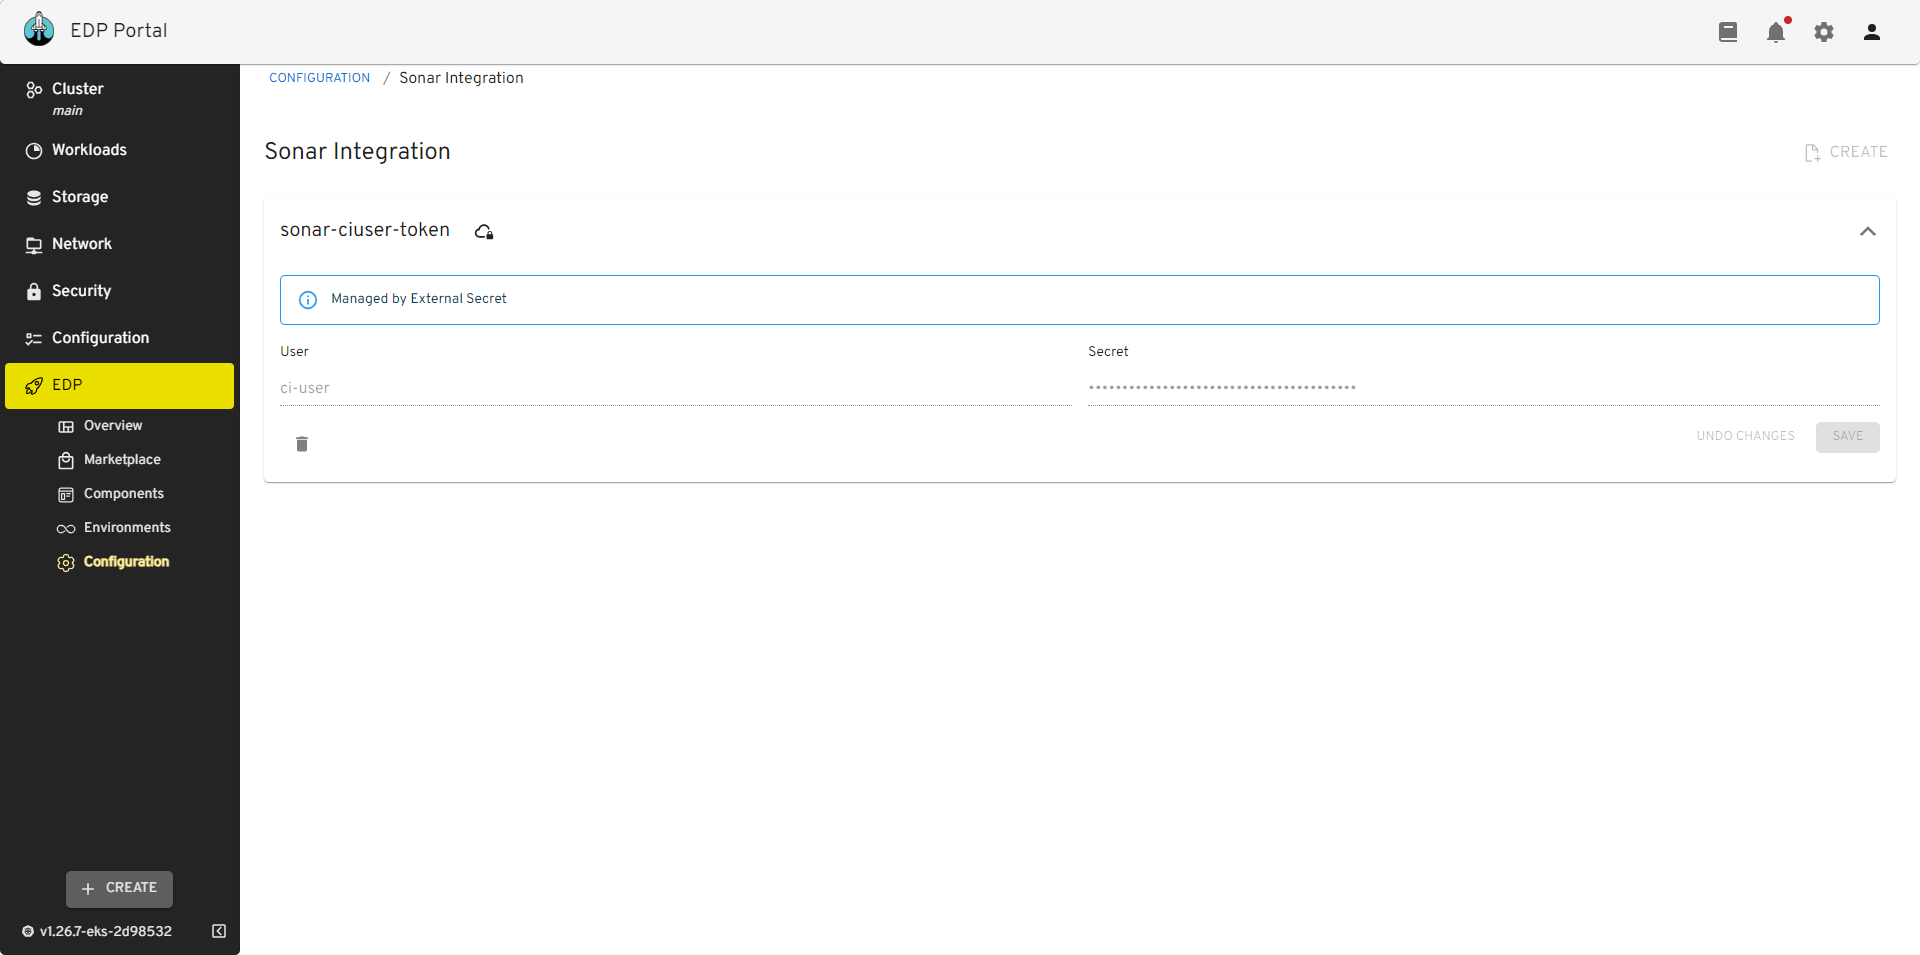
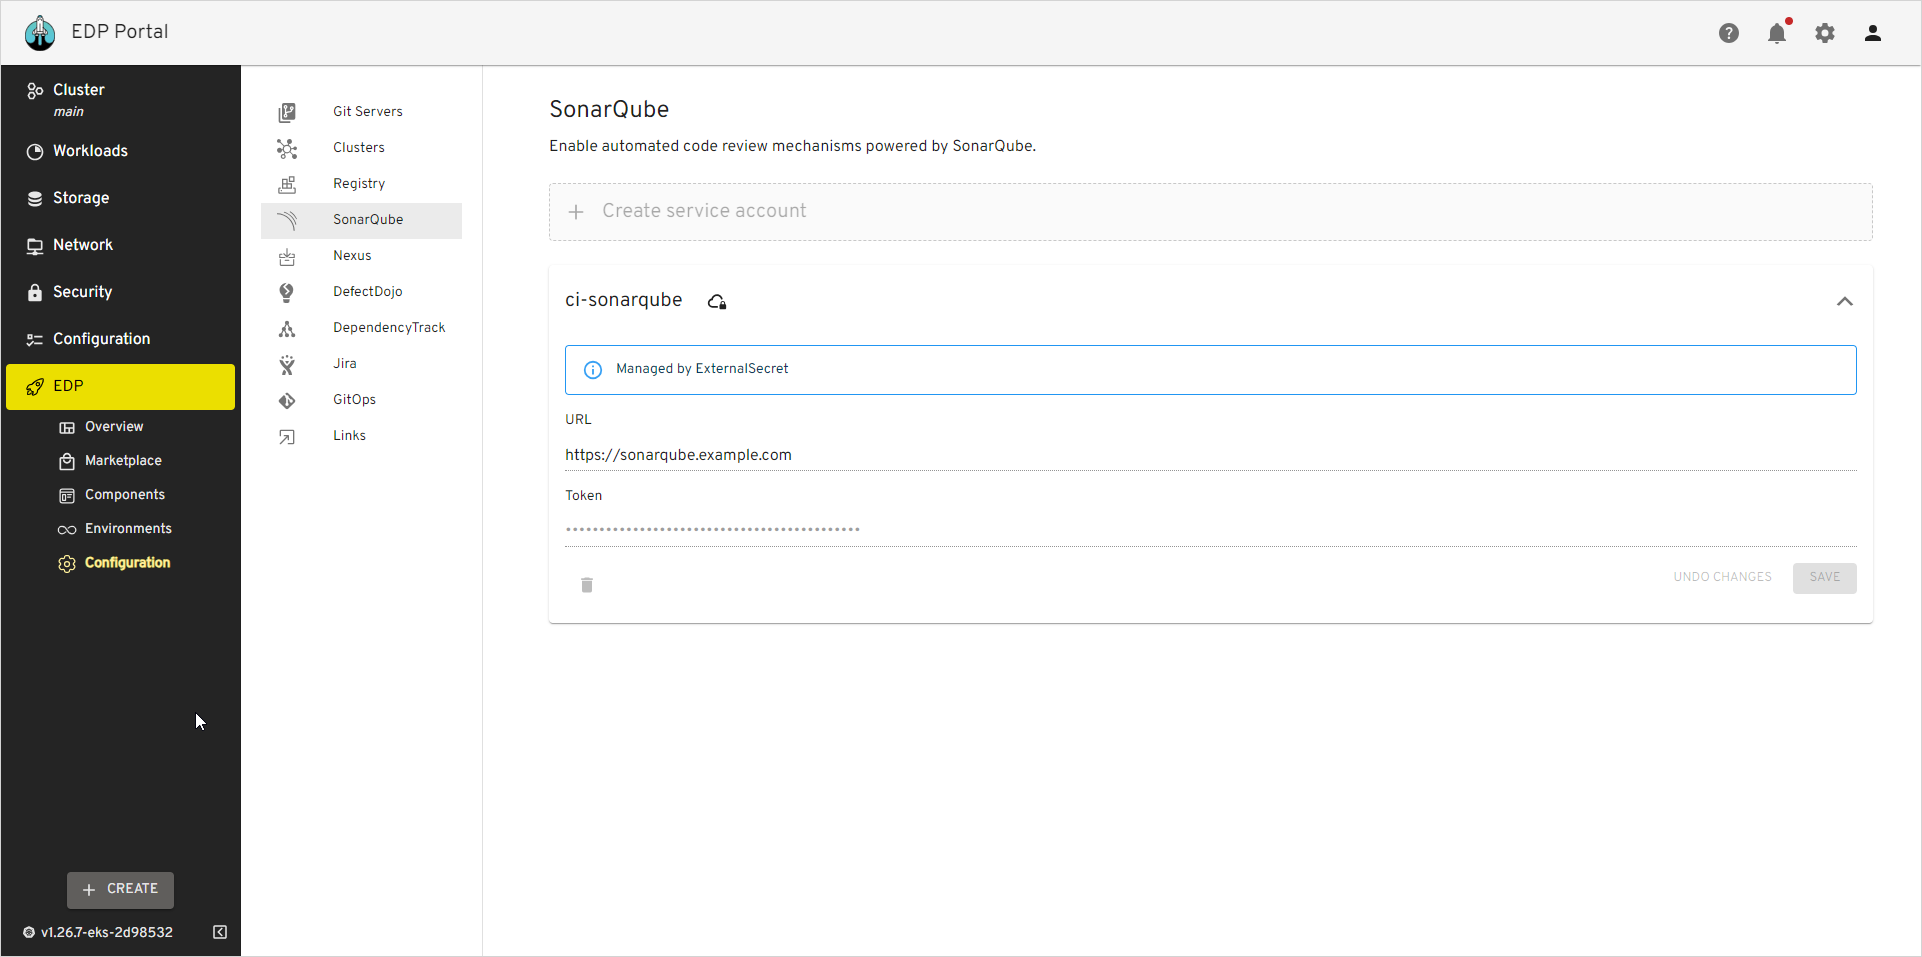
docs: Align Sonarqube secret for the new approach(#65)
Jira EPMDEDP-12504

Related https://github.com/epam/edp-install/issues/65

diff --git a/docs/operator-guide/sonarqube.md b/docs/operator-guide/sonarqube.md
@@ -1,6 +1,9 @@
 # SonarQube Integration
 
-This documentation guide provides comprehensive instructions for integrating external SonarQube with the EPAM Delivery Platform.
+This documentation guide provides comprehensive instructions for integrating SonarQube with the EPAM Delivery Platform.
+
+!!! info
+    In EDP release 3.5, we have changed the deployment strategy for the sonarqube-operator component, now it is not installed by default. The `sonarURL` parameter management has been transferred from the values.yaml file to Kubernetes secrets.
 
 ## Prerequisites
 
@@ -9,24 +12,9 @@ Before proceeding, ensure that you have the following prerequisites:
 * [Kubectl](https://v1-26.docs.kubernetes.io/releases/download/) version 1.26.0 is installed.
 * [Helm](https://helm.sh) version 3.12.0+ is installed.
 
-EDP includes a pre-installed SonarQube instance, which is ready to use with no extra configuration, delivering code analysis capabilities out of the box. Yet, EDP maintains the option to integrate external SonarQube instances tailored to specific project needs.
+## Installation
 
-## Switch to External Sonarqube
-
-1. To use external SonarQube in EDP, redefine the following parameters in the EDP-install [values.yaml](https://github.com/epam/edp-install/blob/master/deploy-templates/values.yaml) file. In the `sonarUrl` parameter, input the appropriate values for your SonarQube service, namespace and a port `http://<service-name>.<sonarqube-namespace>:9000`. Alternatively, use the address and a port to external SonarQube `http(s)://<endpoint>` instead.
-
-  ```yaml
-  global:
-    sonarUrl: ""
-
-  sonar-operator:
-    enabled: false
-  ```
-
-2. Proceed with the installation of EDP by following the [Install EDP](../operator-guide/install-edp.md) guide.
-
-!!! note
-    You can install preconfigured SonarQube with edp-sonar-operator using [EDP addons](https://github.com/epam/edp-cluster-add-ons) approach.
+To install SonarQube with pre-defined templates, use the sonar-operator installed via [Cluster Add-Ons](https://github.com/epam/edp-cluster-add-ons) approach.
 
 ## Configuration
 
@@ -44,47 +32,48 @@ To establish robust authentication and precise access control, generating a Sona
 
   !![SonarQube token](../assets/operator-guide/sonar-copy-token.png "SonarQube token")
 
-4. Provision secrets using manifest, EDP Portal or with the externalSecrets operator
+4. Provision secrets using Manifest, EDP Portal or with the externalSecrets operator:
 
-=== "manifest"
+=== "EDP Portal"
+
+    Go to **EDP Portal** -> **EDP** -> **Configuration** -> **SonarQube**. Update or fill in the **URL** and **Token** fields and click the **Save** button:
+
+    !![SonarQube update manual secret](../assets/operator-guide/sonar-secret-password.png "SonarQube update manual secret")
+
+=== "Manifest"
 
     ```yaml
     apiVersion: v1
     kind: Secret
     metadata:
-      name: sonar-ciuser-token
+      name: ci-sonarqube
       namespace: edp
       labels:
         app.edp.epam.com/secret-type: sonar
     type: Opaque
     stringData:
-      secret: <sonarqube-token>
-      username: <username>
+      url: https://sonarqube.example.com
+      token: <sonarqube-token>
     ```
-
-=== "Manual Secret"
-
-    Go to the `EDP Portal UI` open `EDP` -> `Configuration` -> `Sonarqube Integration` change or apply `User` and `password` and click `save` button.
-
-    !![SonarQube update manual secret](../assets/operator-guide/sonar-secret-password.png "SonarQube update manual secret")
 
 === "External Secrets Operator"
 
-    ```yaml
-    "sonar-ciuser-token":
+    ```json
+    "ci-sonarqube":
     {
-      "username": "XXXXXXXXXXXX",
-      "secret": "XXXXXXXXXXXX"
+      "url": "https://sonarqube.example.com",
+      "token": "XXXXXXXXXXXX"
     },
     ```
 
-    Go to the `EDP Platform UI` open `EDP` -> `Configuration` -> `Sonarqube Integration` yo will se message `Managed by External Secret`.
+    Go to **EDP Portal** -> **EDP** -> **Configuration** -> **SonarQube** and see the `Managed by External Secret` message:
 
     !![SonarQube managed by external secret operator](../assets/operator-guide/sonar-externalsecret-password.png "SonarQube managed by external secret operator")
 
-    More detail of External Secrets Operator Integration can found on [the following page](https://epam.github.io/edp-install/operator-guide/external-secrets-operator-integration/)
+    More details about External Secrets Operator integration can be found in the [External Secrets Operator Integration](https://epam.github.io/edp-install/operator-guide/external-secrets-operator-integration/) page.
 
 ## Related Articles
 * [Install EDP With Values File](install-edp.md)
 * [Install External Secrets Operator](install-external-secrets-operator.md)
 * [External Secrets Operator Integration](external-secrets-operator-integration.md)
+* [Cluster Add-Ons Overview](add-ons-overview.md)
